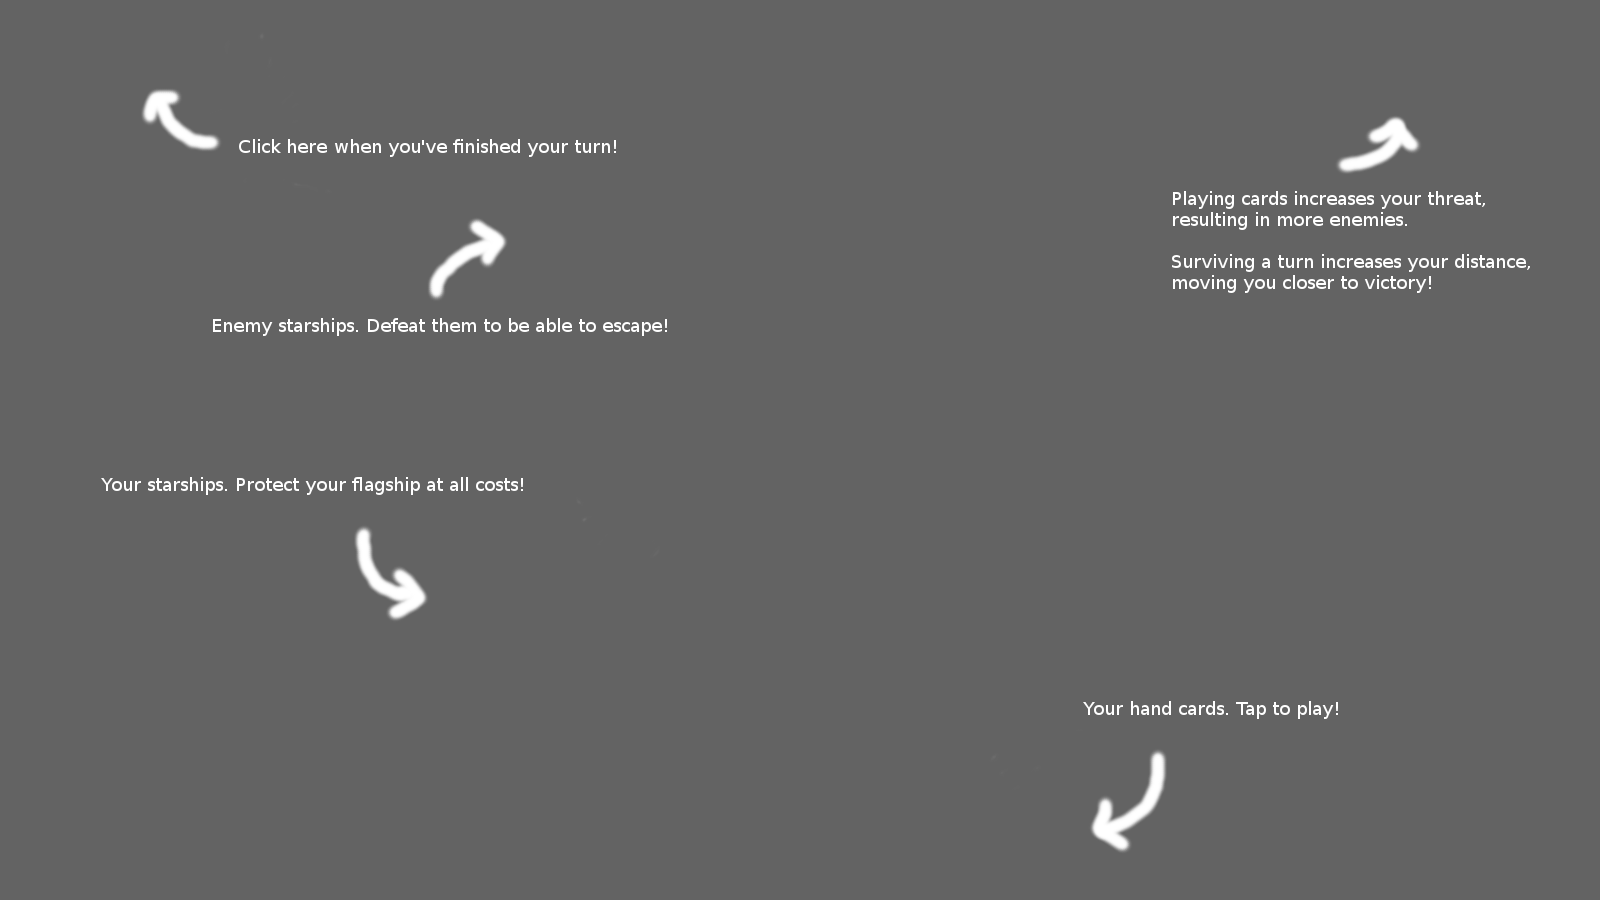
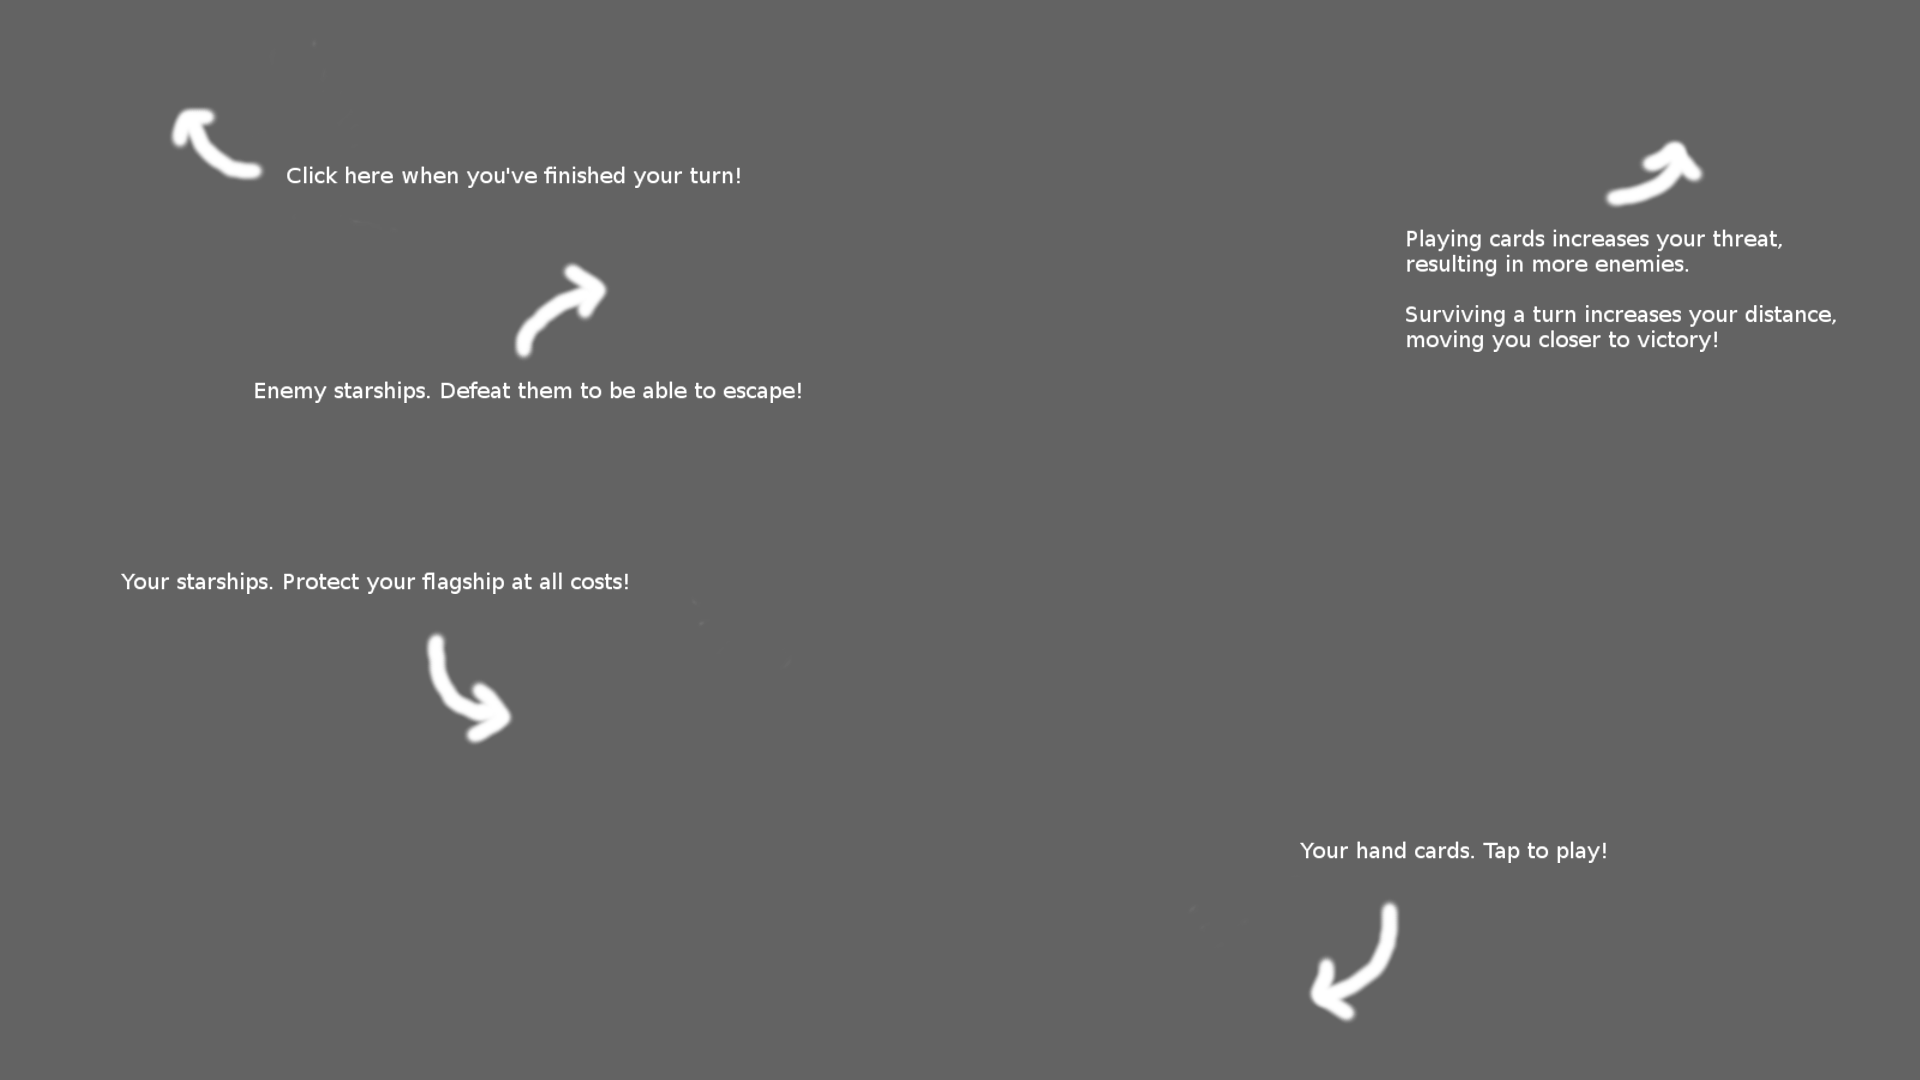
ADDED: UI - Introduced relative coordinates in addition to absolute coordinates for anchoring independently of current display resolution.

diff --git a/Source/PinnedDownClient/PinnedDownClient/Systems/CardLayoutSystem.cpp b/Source/PinnedDownClient/PinnedDownClient/Systems/CardLayoutSystem.cpp
@@ -293,7 +293,7 @@ EVENT_HANDLER_DEFINITION(CardLayoutSystem, ShipDamagedEvent)
 		damageLayoutData.panelDepth = -10;
 
 		// Anchor damage card to ship.
-		this->uiFactory->SetAnchor(damageCard->backgroundSprite, VerticalAnchor(VerticalAnchorType::VerticalCenter, this->damageCardOffset), HorizontalAnchor(HorizontalAnchorType::HorizontalCenter, 0), shipCard->backgroundSprite);
+		this->uiFactory->SetAnchor(damageCard->backgroundSprite, VerticalAnchor(VerticalAnchorType::VerticalCenter, this->damageCardOffsetY), HorizontalAnchor(HorizontalAnchorType::HorizontalCenter, 0.0f, 0.0f), shipCard->backgroundSprite);
 		this->uiFactory->SetDepth(damageCard->panel, damageLayoutData.panelDepth);
 
 		damageLayoutData.background = damageCard->backgroundSprite;
@@ -307,7 +307,7 @@ EVENT_HANDLER_DEFINITION(CardLayoutSystem, ShipDamagedEvent)
 		damageLayoutData->panelDepth--;
 
 		// Anchor damage card to last damage card.
-		this->uiFactory->SetAnchor(damageCard->backgroundSprite, VerticalAnchor(VerticalAnchorType::VerticalCenter, this->damageCardOffset), HorizontalAnchor(HorizontalAnchorType::HorizontalCenter, 0), damageLayoutData->background);
+		this->uiFactory->SetAnchor(damageCard->backgroundSprite, VerticalAnchor(VerticalAnchorType::VerticalCenter, this->damageCardOffsetY), HorizontalAnchor(HorizontalAnchorType::HorizontalCenter, 0.0f), damageLayoutData->background);
 		this->uiFactory->SetDepth(damageCard->panel, damageLayoutData->panelDepth);
 
 		damageLayoutData->background = damageCard->backgroundSprite;
@@ -334,7 +334,6 @@ std::shared_ptr<Card> CardLayoutSystem::CreateCard(Entity cardEntity)
 
 	// Card background sprite.
 	card->backgroundSprite = this->uiFactory->CreateSprite("Assets/BlueWingStarship.png");
-	this->uiFactory->SetAnchor(card->backgroundSprite, VerticalAnchor(VerticalAnchorType::VerticalCenter, 200.0f), HorizontalAnchor(HorizontalAnchorType::HorizontalCenter, 0.0f), 0);
 	this->uiFactory->SetPanel(card->backgroundSprite, card->panel);
 	this->uiFactory->SetTappable(card->backgroundSprite, true);
 	this->uiFactory->FinishUIWidget(card->backgroundSprite);
@@ -381,7 +380,7 @@ std::shared_ptr<Card> CardLayoutSystem::CreateCard(Entity cardEntity)
 		this->uiFactory->FinishUIWidget(card->powerLabel);
 
 		card->powerValueLabel = this->uiFactory->CreateLabel(std::to_wstring(powerComponent->power));
-		this->uiFactory->SetAnchor(card->powerValueLabel, VerticalAnchor(VerticalAnchorType::VerticalCenter, 0.0f), HorizontalAnchor(HorizontalAnchorType::Left, 40.0f), card->powerLabel);
+		this->uiFactory->SetAnchor(card->powerValueLabel, VerticalAnchor(VerticalAnchorType::VerticalCenter, 0.0f), HorizontalAnchor(HorizontalAnchorType::Left, powerLabelOffsetX), card->powerLabel);
 		this->uiFactory->SetColor(card->powerValueLabel, D2D1::ColorF(D2D1::ColorF::Black));
 		this->uiFactory->SetPanel(card->powerValueLabel, card->panel);
 		this->uiFactory->FinishUIWidget(card->powerValueLabel);
@@ -393,7 +392,7 @@ std::shared_ptr<Card> CardLayoutSystem::CreateCard(Entity cardEntity)
 	if (structureComponent != nullptr)
 	{
 		card->structureLabel = this->uiFactory->CreateLabel(L"Card_Property_Structure");
-		this->uiFactory->SetAnchor(card->structureLabel, VerticalAnchor(VerticalAnchorType::Bottom, 0.0f), HorizontalAnchor(HorizontalAnchorType::Right, -40.0f), card->backgroundSprite);
+		this->uiFactory->SetAnchor(card->structureLabel, VerticalAnchor(VerticalAnchorType::Bottom, 0.0f), HorizontalAnchor(HorizontalAnchorType::Right, -structureLabelOffsetX), card->backgroundSprite);
 		this->uiFactory->SetColor(card->structureLabel, D2D1::ColorF(D2D1::ColorF::Black));
 		this->uiFactory->SetPanel(card->structureLabel, card->panel);
 		this->uiFactory->FinishUIWidget(card->structureLabel);
@@ -409,7 +408,7 @@ std::shared_ptr<Card> CardLayoutSystem::CreateCard(Entity cardEntity)
 	std::wstring cardText = L"Card_" + std::to_wstring(cardComponent->setIndex) + L"_" + std::to_wstring(cardComponent->cardIndex) + L"_Text";
 
 	card->abilityLabel = this->uiFactory->CreateLabel(cardText, 150.0f);
-	this->uiFactory->SetAnchor(card->abilityLabel, VerticalAnchor(VerticalAnchorType::VerticalCenter, 30.0f), HorizontalAnchor(HorizontalAnchorType::Left, 20.0f), card->backgroundSprite);
+	this->uiFactory->SetAnchor(card->abilityLabel, VerticalAnchor(VerticalAnchorType::VerticalCenter, abilityLabelOffsetY), HorizontalAnchor(HorizontalAnchorType::Left, abilityLabelOffsetX), card->backgroundSprite);
 	this->uiFactory->SetColor(card->abilityLabel, D2D1::ColorF(D2D1::ColorF::Black));
 	this->uiFactory->SetPanel(card->abilityLabel, card->panel);
 	this->uiFactory->FinishUIWidget(card->abilityLabel);
@@ -472,19 +471,19 @@ void CardLayoutSystem::LayoutCards()
 	// Layout cards.
 
 	// Compute offset between assigned cards to the left and unassigned cards to the right.
-	float unassignedCardOffset = assignedPlayerCards * (cardWidth + cardOffset);
+	float unassignedCardOffset = assignedPlayerCards * cardOffset;
 
 	// Center unassigned player cards to the right.
-	float unassignedPlayerCardPositionX = -(unassignedPlayerCards - 1) * (cardWidth + cardOffset) / 2 + unassignedCardOffset;
+	float unassignedPlayerCardPositionX = -(unassignedPlayerCards - 1) * cardOffset / 2 + unassignedCardOffset;
 
 	// Center player hand cards.
-	float playerHandCardPositionX = -(playerHandCards - 1) * (cardWidth + cardOffset) / 2;
+	float playerHandCardPositionX = -(playerHandCards - 1) * cardOffset / 2;
 
 	// Align assigned enemy cards left. Assigned player cards will be anchored to their respective enemies.
 	float assignedEnemyCardPositionX = firstAssignedCardPositionX;
 
 	// Center unassigned player cards to the right.
-	float unassignedEnemyCardPositionX = -(unassignedEnemyCards - 1) * (cardWidth + cardOffset) / 2 + unassignedCardOffset;
+	float unassignedEnemyCardPositionX = -(unassignedEnemyCards - 1) * cardOffset / 2 + unassignedCardOffset;
 
 	for (auto iterator = this->cards.begin(); iterator != this->cards.end(); ++iterator)
 	{
@@ -510,13 +509,13 @@ void CardLayoutSystem::LayoutCards()
 			{
 				// Card is in hand.
 				this->uiFactory->SetAnchor(card->backgroundSprite, VerticalAnchor(VerticalAnchorType::Bottom, this->playerHandPositionY), HorizontalAnchor(HorizontalAnchorType::HorizontalCenter, playerHandCardPositionX), 0);
-				playerHandCardPositionX += cardWidth + cardOffset;
+				playerHandCardPositionX += cardOffset;
 			}
 			else
 			{
 				// Card is not assigned.
 				this->uiFactory->SetAnchor(card->backgroundSprite, VerticalAnchor(VerticalAnchorType::VerticalCenter, this->playerCardPositionY), HorizontalAnchor(HorizontalAnchorType::HorizontalCenter, unassignedPlayerCardPositionX), 0);
-				unassignedPlayerCardPositionX += cardWidth + cardOffset;
+				unassignedPlayerCardPositionX += cardOffset;
 			}
 		}
 		else
@@ -540,12 +539,12 @@ void CardLayoutSystem::LayoutCards()
 				if (assigned)
 				{
 					this->uiFactory->SetAnchor(card->backgroundSprite, VerticalAnchor(VerticalAnchorType::VerticalCenter, this->enemyCardPositionY), HorizontalAnchor(HorizontalAnchorType::Left, assignedEnemyCardPositionX), 0);
-					assignedEnemyCardPositionX += cardWidth + cardOffset;
+					assignedEnemyCardPositionX += cardOffset;
 				}
 				else
 				{
 					this->uiFactory->SetAnchor(card->backgroundSprite, VerticalAnchor(VerticalAnchorType::VerticalCenter, this->enemyCardPositionY), HorizontalAnchor(HorizontalAnchorType::HorizontalCenter, unassignedEnemyCardPositionX), 0);
-					unassignedEnemyCardPositionX += cardWidth + cardOffset;
+					unassignedEnemyCardPositionX += cardOffset;
 				}
 			}
 		}

diff --git a/Source/PinnedDownClient/PinnedDownClient/Systems/Screens/GameScreen.cpp b/Source/PinnedDownClient/PinnedDownClient/Systems/Screens/GameScreen.cpp
@@ -91,39 +91,39 @@ void GameScreen::LoadUI()
 {
 	// Player name label.
 	this->playerNameLabel = this->uiFactory->CreateLabel(L"?");
-	this->uiFactory->SetAnchor(this->playerNameLabel, VerticalAnchor(VerticalAnchorType::Top, 20.0f), HorizontalAnchor(HorizontalAnchorType::Right, -200.0f), 0);
+	this->uiFactory->SetAnchor(this->playerNameLabel, VerticalAnchor(VerticalAnchorType::Top, 0.022f), HorizontalAnchor(HorizontalAnchorType::Right, -0.125f), 0);
 	this->uiFactory->FinishUIWidget(this->playerNameLabel);
 
 	// Distance label.
 	this->distanceLabel = this->uiFactory->CreateLabel(L"GameScreen_Info_DistanceCovered");
-	this->uiFactory->SetAnchor(this->distanceLabel, VerticalAnchor(VerticalAnchorType::Top, 20.0f), HorizontalAnchor(HorizontalAnchorType::Left, 0.0f), this->playerNameLabel);
+	this->uiFactory->SetAnchor(this->distanceLabel, VerticalAnchor(VerticalAnchorType::Top, 0.022f), HorizontalAnchor(HorizontalAnchorType::Left, 0.0f), this->playerNameLabel);
 	this->uiFactory->FinishUIWidget(this->distanceLabel);
 
 	this->distanceValueLabel = this->uiFactory->CreateLabel(L"0 / 0");
-	this->uiFactory->SetAnchor(this->distanceValueLabel, VerticalAnchor(VerticalAnchorType::VerticalCenter, 0.0f), HorizontalAnchor(HorizontalAnchorType::Left, 120.0f), this->distanceLabel);
+	this->uiFactory->SetAnchor(this->distanceValueLabel, VerticalAnchor(VerticalAnchorType::VerticalCenter, 0.0f), HorizontalAnchor(HorizontalAnchorType::Left, 0.075f), this->distanceLabel);
 	this->uiFactory->FinishUIWidget(this->distanceValueLabel);
 
 	// Turn Phase label.
 	this->turnPhaseLabel = this->uiFactory->CreateLabel(L"GameScreen_Info_TurnPhase");
-	this->uiFactory->SetAnchor(this->turnPhaseLabel, VerticalAnchor(VerticalAnchorType::VerticalCenter, 20.0f), HorizontalAnchor(HorizontalAnchorType::Left, 0.0f), this->distanceLabel);
+	this->uiFactory->SetAnchor(this->turnPhaseLabel, VerticalAnchor(VerticalAnchorType::VerticalCenter, 0.022f), HorizontalAnchor(HorizontalAnchorType::Left, 0.0f), this->distanceLabel);
 	this->uiFactory->FinishUIWidget(this->turnPhaseLabel);
 
 	this->turnPhaseValueLabel = this->uiFactory->CreateLabel(L"");
-	this->uiFactory->SetAnchor(this->turnPhaseValueLabel, VerticalAnchor(VerticalAnchorType::VerticalCenter, 0.0f), HorizontalAnchor(HorizontalAnchorType::Left, 120.0f), this->turnPhaseLabel);
+	this->uiFactory->SetAnchor(this->turnPhaseValueLabel, VerticalAnchor(VerticalAnchorType::VerticalCenter, 0.0f), HorizontalAnchor(HorizontalAnchorType::Left, 0.075f), this->turnPhaseLabel);
 	this->uiFactory->FinishUIWidget(this->turnPhaseValueLabel);
 
 	// Threat label.
 	this->threatLabel = this->uiFactory->CreateLabel(L"GameScreen_Info_Threat");
-	this->uiFactory->SetAnchor(this->threatLabel, VerticalAnchor(VerticalAnchorType::VerticalCenter, 20.0f), HorizontalAnchor(HorizontalAnchorType::Left, 0.0f), this->turnPhaseLabel);
+	this->uiFactory->SetAnchor(this->threatLabel, VerticalAnchor(VerticalAnchorType::VerticalCenter, 0.022f), HorizontalAnchor(HorizontalAnchorType::Left, 0.0f), this->turnPhaseLabel);
 	this->uiFactory->FinishUIWidget(this->threatLabel);
 
 	this->threatValueLabel = this->uiFactory->CreateLabel(L"");
-	this->uiFactory->SetAnchor(this->threatValueLabel, VerticalAnchor(VerticalAnchorType::VerticalCenter, 0.0f), HorizontalAnchor(HorizontalAnchorType::Left, 120.0f), this->threatLabel);
+	this->uiFactory->SetAnchor(this->threatValueLabel, VerticalAnchor(VerticalAnchorType::VerticalCenter, 0.0f), HorizontalAnchor(HorizontalAnchorType::Left, 0.075f), this->threatLabel);
 	this->uiFactory->FinishUIWidget(this->threatValueLabel);
 
 	// End turn button.
 	this->endTurnButton = this->uiFactory->CreateSprite("Assets/Button.png");
-	this->uiFactory->SetAnchor(this->endTurnButton, VerticalAnchor(VerticalAnchorType::Top, 20.0f), HorizontalAnchor(HorizontalAnchorType::Left, 20.0f), 0);
+	this->uiFactory->SetAnchor(this->endTurnButton, VerticalAnchor(VerticalAnchorType::Top, 0.022f), HorizontalAnchor(HorizontalAnchorType::Left, 0.0125f), 0);
 	this->uiFactory->SetTappable(this->endTurnButton, true);
 	this->uiFactory->FinishUIWidget(this->endTurnButton);
 
@@ -133,7 +133,7 @@ void GameScreen::LoadUI()
 
 	// Hints button.
 	this->hintButton = this->uiFactory->CreateSprite("Assets/Button.png");
-	this->uiFactory->SetAnchor(this->hintButton, VerticalAnchor(VerticalAnchorType::VerticalCenter, 0.0f), HorizontalAnchor(HorizontalAnchorType::Right, 200.0f), this->endTurnButton);
+	this->uiFactory->SetAnchor(this->hintButton, VerticalAnchor(VerticalAnchorType::VerticalCenter, 0.0f), HorizontalAnchor(HorizontalAnchorType::Right, 0.1f), this->endTurnButton);
 	this->uiFactory->SetTappable(this->hintButton, true);
 	this->uiFactory->FinishUIWidget(this->hintButton);
 
@@ -143,12 +143,12 @@ void GameScreen::LoadUI()
 
 	// Turn Phase Hint label.
 	this->turnPhaseHintLabel = this->uiFactory->CreateLabel(L"");
-	this->uiFactory->SetAnchor(this->turnPhaseHintLabel, VerticalAnchor(VerticalAnchorType::Top, 20.0f), HorizontalAnchor(HorizontalAnchorType::HorizontalCenter, 0.0f), 0);
+	this->uiFactory->SetAnchor(this->turnPhaseHintLabel, VerticalAnchor(VerticalAnchorType::Top, 0.022f), HorizontalAnchor(HorizontalAnchorType::HorizontalCenter, 0.0f), 0);
 	this->uiFactory->FinishUIWidget(this->turnPhaseHintLabel);
 
 	// Error Message label.
 	this->errorMessageLabel = this->uiFactory->CreateLabel(L"");
-	this->uiFactory->SetAnchor(this->errorMessageLabel, VerticalAnchor(VerticalAnchorType::Top, 50.0f), HorizontalAnchor(HorizontalAnchorType::HorizontalCenter, 0.0f), this->turnPhaseHintLabel);
+	this->uiFactory->SetAnchor(this->errorMessageLabel, VerticalAnchor(VerticalAnchorType::Top, 0.0556f), HorizontalAnchor(HorizontalAnchorType::HorizontalCenter, 0.0f), this->turnPhaseHintLabel);
 	this->uiFactory->SetColor(this->errorMessageLabel, D2D1::ColorF(D2D1::ColorF::Red));
 	this->uiFactory->FinishUIWidget(this->errorMessageLabel);
 

diff --git a/Source/PinnedDownClient/PinnedDownClient/Components/UIAnchorComponent.h b/Source/PinnedDownClient/PinnedDownClient/Components/UIAnchorComponent.h
@@ -27,32 +27,44 @@ namespace PinnedDownClient
 		struct HorizontalAnchor
 		{
 			HorizontalAnchorType type;
-			float offset;
+			float relativeOffset;
+			float absoluteOffset;
 
 			HorizontalAnchor() : HorizontalAnchor::HorizontalAnchor(HorizontalAnchorType::Left, 0.0f)
 			{
 			}
 
-			HorizontalAnchor(HorizontalAnchorType type, float offset)
+			HorizontalAnchor(HorizontalAnchorType type, float relativeOffset) : HorizontalAnchor::HorizontalAnchor(type, relativeOffset, 0.0f)
+			{
+			}
+
+			HorizontalAnchor(HorizontalAnchorType type, float relativeOffset, float absoluteOffset)
 			{
 				this->type = type;
-				this->offset = offset;
+				this->relativeOffset = relativeOffset;
+				this->absoluteOffset = absoluteOffset;
 			}
 		};
 
 		struct VerticalAnchor
 		{
 			VerticalAnchorType type;
-			float offset;
+			float relativeOffset;
+			float absoluteOffset;
 
 			VerticalAnchor() : VerticalAnchor::VerticalAnchor(VerticalAnchorType::Top, 0.0f)
 			{
 			}
 
-			VerticalAnchor(VerticalAnchorType type, float offset)
+			VerticalAnchor(VerticalAnchorType type, float relativeOffset) : VerticalAnchor::VerticalAnchor(type, relativeOffset, 0.0f)
+			{
+			}
+
+			VerticalAnchor(VerticalAnchorType type, float relativeOffset, float absoluteOffset)
 			{
 				this->type = type;
-				this->offset = offset;
+				this->relativeOffset = relativeOffset;
+				this->absoluteOffset = absoluteOffset;
 			}
 		};
 

diff --git a/Source/PinnedDownClient/PinnedDownClient/Systems/DebugInfoSystem.cpp b/Source/PinnedDownClient/PinnedDownClient/Systems/DebugInfoSystem.cpp
@@ -37,20 +37,20 @@ void DebugInfoSystem::CreateEntities()
 {
 	this->pointerPositionTextEntity = this->uiFactory->CreateLabel(L"");
 	this->uiFactory->SetAnchor(this->pointerPositionTextEntity,
-		VerticalAnchor(VerticalAnchorType::Bottom, -80.0f),
-		HorizontalAnchor(HorizontalAnchorType::Left, 20.0f));
+		VerticalAnchor(VerticalAnchorType::Bottom, pointerPositionTextPosition.y),
+		HorizontalAnchor(HorizontalAnchorType::Left, pointerPositionTextPosition.x));
 	this->uiFactory->FinishUIWidget(this->pointerPositionTextEntity);
 
 	this->fpsTextEntity = this->uiFactory->CreateLabel(L"");
 	this->uiFactory->SetAnchor(this->fpsTextEntity,
-		VerticalAnchor(VerticalAnchorType::Bottom, -60.0f),
-		HorizontalAnchor(HorizontalAnchorType::Left, 20.0f));
+		VerticalAnchor(VerticalAnchorType::Bottom, fpsTextPosition.y),
+		HorizontalAnchor(HorizontalAnchorType::Left, fpsTextPosition.x));
 	this->uiFactory->FinishUIWidget(this->fpsTextEntity);
 
 	this->versionTextEntity = this->uiFactory->CreateLabel(L"");
 	this->uiFactory->SetAnchor(this->versionTextEntity, 
-		VerticalAnchor(VerticalAnchorType::Bottom, -40.0f),
-		HorizontalAnchor(HorizontalAnchorType::Left, 20.0f));
+		VerticalAnchor(VerticalAnchorType::Bottom, versionTextPosition.y),
+		HorizontalAnchor(HorizontalAnchorType::Left, versionTextPosition.x));
 	this->uiFactory->FinishUIWidget(this->versionTextEntity);
 
 	// Show version number.

diff --git a/Source/PinnedDownClient/PinnedDownClient/Systems/Screens/LoginScreen.cpp b/Source/PinnedDownClient/PinnedDownClient/Systems/Screens/LoginScreen.cpp
@@ -94,7 +94,7 @@ void LoginScreen::LoadUI()
 {
 	// Status label.
 	this->statusLabel = this->uiFactory->CreateLabel(L"LoginScreen_Connecting");
-	this->uiFactory->SetAnchor(this->statusLabel, VerticalAnchor(VerticalAnchorType::VerticalCenter, 200.0f), HorizontalAnchor(HorizontalAnchorType::HorizontalCenter, 0.0f), 0);
+	this->uiFactory->SetAnchor(this->statusLabel, VerticalAnchor(VerticalAnchorType::VerticalCenter, 0.222f), HorizontalAnchor(HorizontalAnchorType::HorizontalCenter, 0.0f), 0);
 	this->uiFactory->SetFontSize(this->statusLabel, 18.0f);
 	this->uiFactory->FinishUIWidget(this->statusLabel);
 
@@ -179,7 +179,7 @@ void LoginScreen::OnLoginError(LoginErrorEvent& loginErrorEvent)
 	this->connecting = false;
 
 	this->reconnectButton = this->uiFactory->CreateSprite("Assets/Button.png");
-	this->uiFactory->SetAnchor(this->reconnectButton, VerticalAnchor(VerticalAnchorType::VerticalCenter, 300.0f), HorizontalAnchor(HorizontalAnchorType::HorizontalCenter, 0.0f), 0);
+	this->uiFactory->SetAnchor(this->reconnectButton, VerticalAnchor(VerticalAnchorType::VerticalCenter, 0.333f), HorizontalAnchor(HorizontalAnchorType::HorizontalCenter, 0.0f), 0);
 	this->uiFactory->SetTappable(this->reconnectButton, true);
 	this->uiFactory->FinishUIWidget(this->reconnectButton);
 

diff --git a/Source/PinnedDownClient/PinnedDownClient/Systems/CardLayoutSystem.h b/Source/PinnedDownClient/PinnedDownClient/Systems/CardLayoutSystem.h
@@ -58,15 +58,17 @@ namespace PinnedDownClient
 
 			std::shared_ptr<Card> cardDetailView;
 
-			const float cardWidth = 200;
-			const float cardOffset = 50;
-			const float firstAssignedCardPositionX = 50;
-			const float assignedCardOffsetY = 300;
-			const float damageCardOffset = 25;
-
-			float playerHandPositionY = 200;
-			float playerCardPositionY = 200;
-			float enemyCardPositionY = -200;
+			const float cardOffset = 0.125f;
+			const float firstAssignedCardPositionX = 0.03125f;
+			const float assignedCardOffsetY = 0.28f;
+			const float damageCardOffsetY = 0.025f;
+			const float powerLabelOffsetX = 0.025f;
+			const float structureLabelOffsetX = 0.025f;
+			const float abilityLabelOffsetX = 0.0125f;
+			const float abilityLabelOffsetY = 0.0333f;
+			const float playerHandPositionY = 0.15f;
+			const float playerCardPositionY = 0.222f;
+			const float enemyCardPositionY = -0.222f;
 
 			void LoadResources();
 

diff --git a/Source/PinnedDownClient/PinnedDownClient/Systems/DebugInfoSystem.h b/Source/PinnedDownClient/PinnedDownClient/Systems/DebugInfoSystem.h
@@ -40,6 +40,10 @@ namespace PinnedDownClient
 			Entity fpsTextEntity = INVALID_ENTITY_ID;
 			Entity versionTextEntity = INVALID_ENTITY_ID;
 
+			const Vector2F pointerPositionTextPosition = Vector2F(0.0125f, -0.088f);
+			const Vector2F fpsTextPosition = Vector2F(0.0125f, - 0.067f);
+			const Vector2F versionTextPosition = Vector2F(0.0125f, -0.044f);
+
 			void CreateEntities();
 
 			void OnEvent(Event & event);

diff --git a/Source/PinnedDownClient/PinnedDownClient/Systems/UILayoutSystem.cpp b/Source/PinnedDownClient/PinnedDownClient/Systems/UILayoutSystem.cpp
@@ -166,8 +166,8 @@ void UILayoutSystem::Update(float dt)
 		}
 
 		// Add relative offset.
-		x += left.offset;
-		y += top.offset;
+		x += this->rootPanel.boundsComponent->bounds.x * left.relativeOffset + left.absoluteOffset;
+		y += this->rootPanel.boundsComponent->bounds.y * top.relativeOffset  + top.absoluteOffset;
 
 		// Update screen position.
 		anchor.screenPositionComponent->position = Vector2F(x, y);

diff --git a/Source/PinnedDownClient/PinnedDownClient/Systems/RenderSystem.h b/Source/PinnedDownClient/PinnedDownClient/Systems/RenderSystem.h
@@ -82,7 +82,7 @@ namespace PinnedDownClient
 			float logicalDpi = 0.0f;
 			DisplayOrientations displayOrientation = DisplayOrientations::None;
 
-			Vector2F designResolution = Vector2F(1920, 1080);
+			const Vector2F designResolution = Vector2F(1920, 1080);
 
 			std::list<std::shared_ptr<Rendering::IRenderable>> renderables;
 
